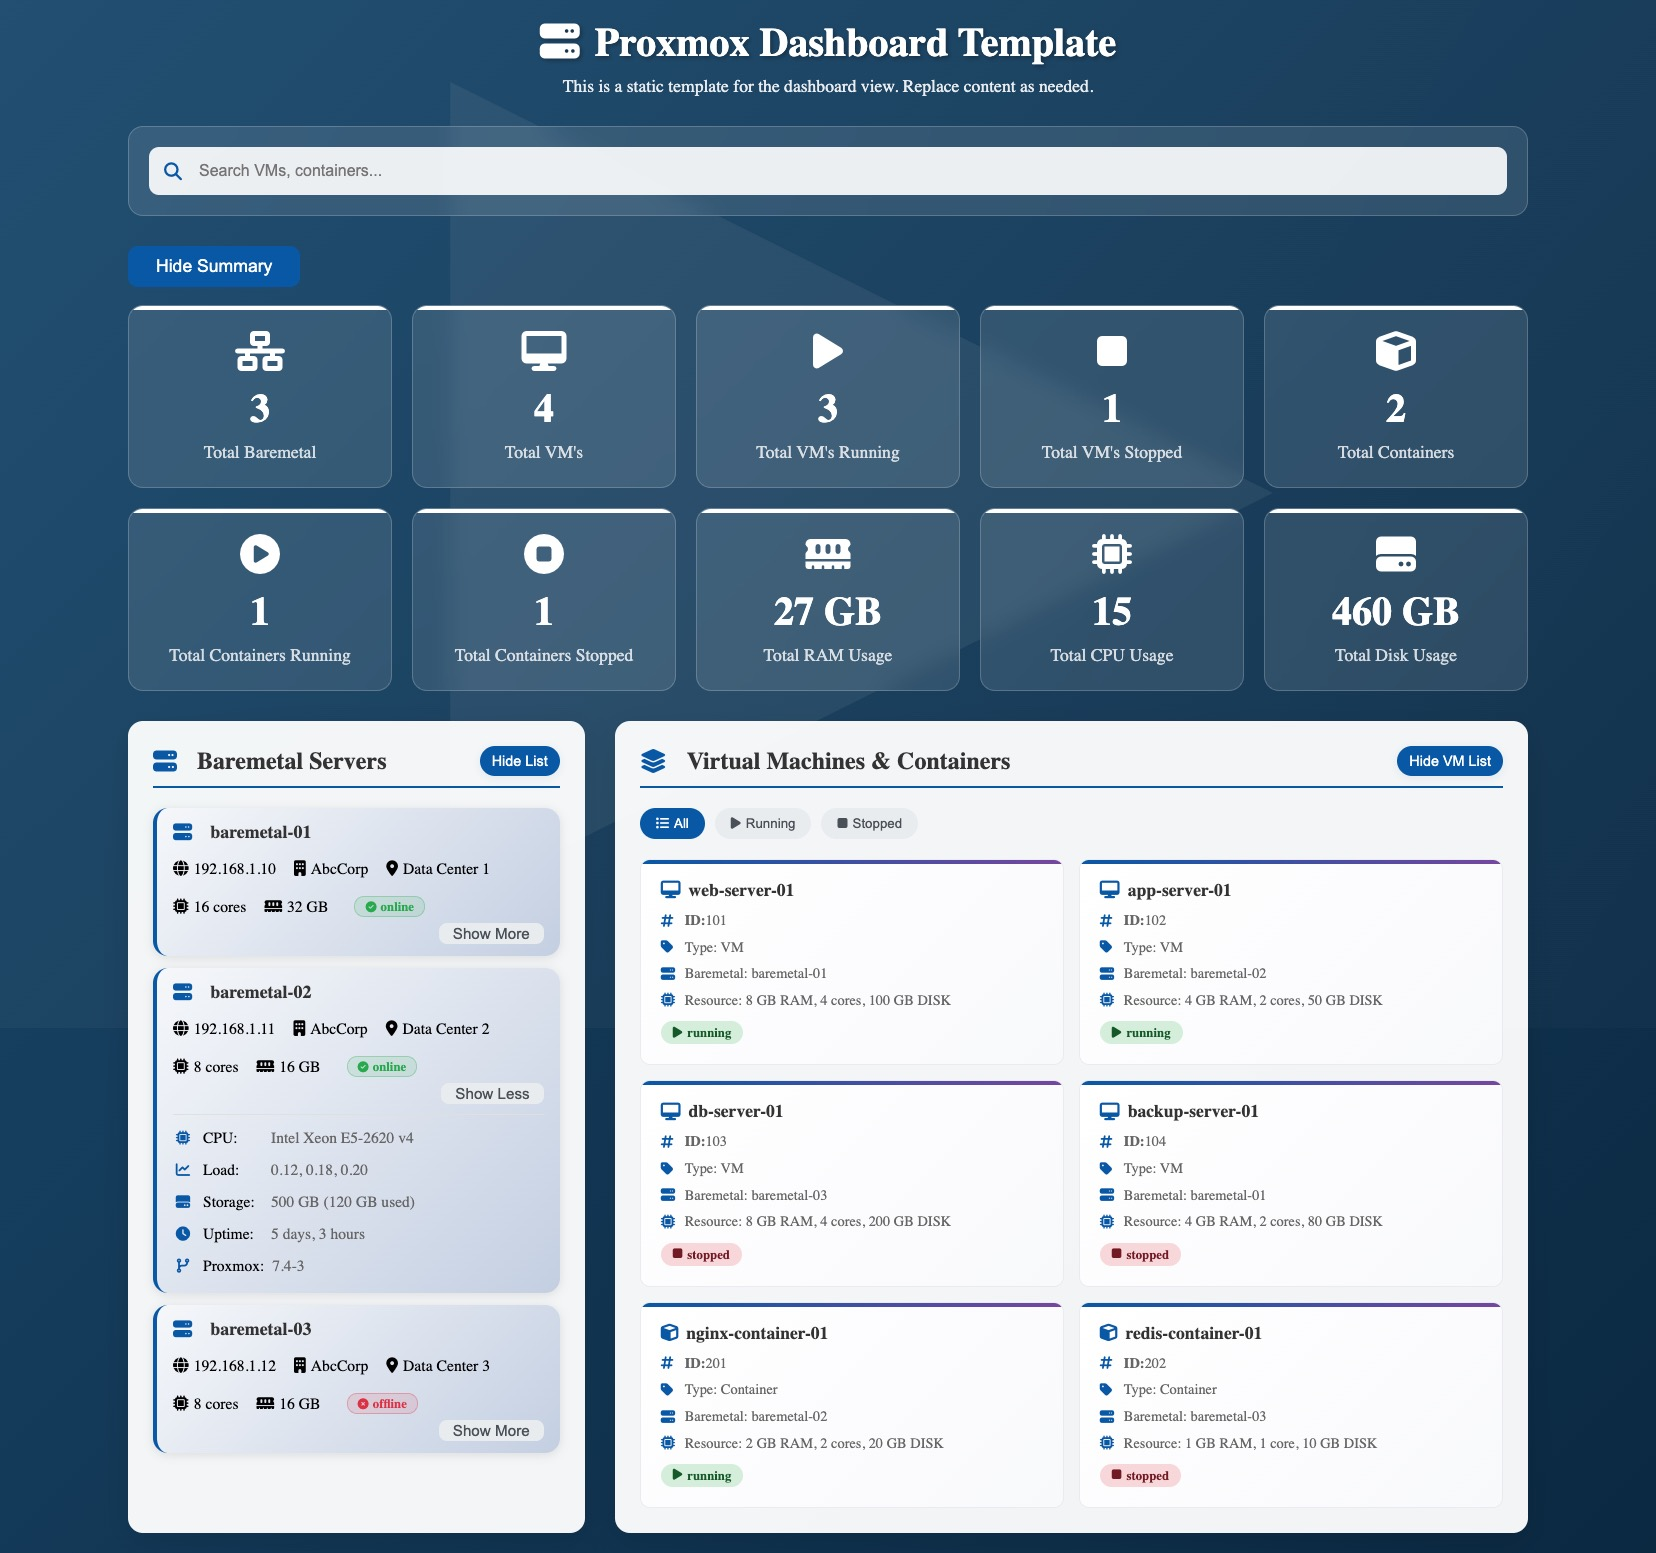
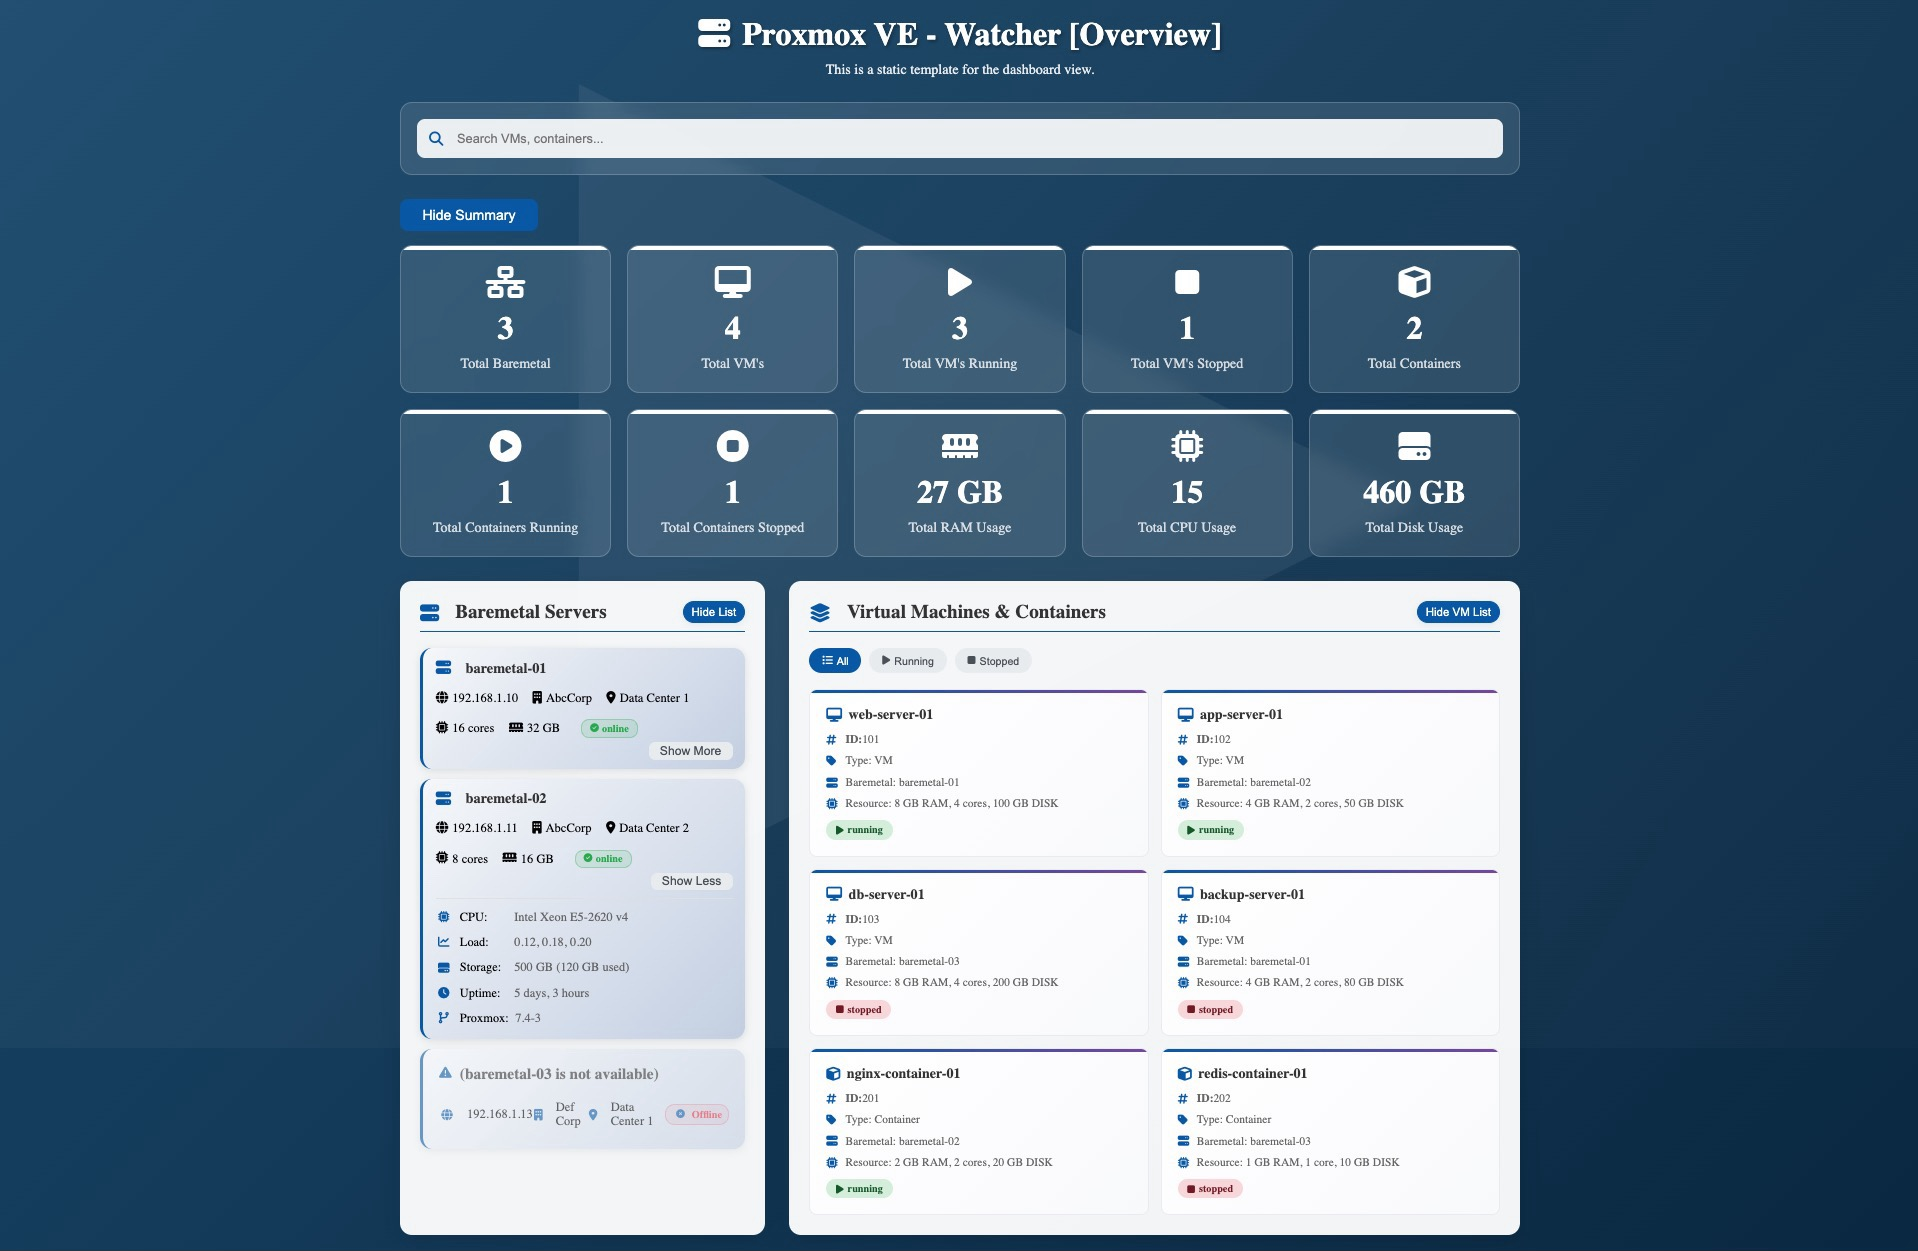
change title name dashboard

diff --git a/frontend/index.html b/frontend/index.html
@@ -3,7 +3,7 @@
 <head>
     <meta charset="UTF-8">
     <meta name="viewport" content="width=device-width, initial-scale=1.0">
-    <title>Proxmox Infrastructure Dashboard</title>
+    <title>Proxmox VE - Watcher</title>
     <link rel="icon" type="image/png" href="https://img.icons8.com/?size=100&id=GxnnEGl75yew&format=png&color=000000">
     <link rel="stylesheet" href="https://cdnjs.cloudflare.com/ajax/libs/font-awesome/6.4.0/css/all.min.css">
     <link rel="stylesheet" href="style.css">
@@ -11,7 +11,7 @@
 <body>
     <div class="container">
         <div class="header">
-            <h1><i class="fas fa-server"></i>Proxmox Infrastructure Dashboard</h1>
+            <h1><i class="fas fa-server"></i>Proxmox VE - Watcher</h1>
             <p>Manage and locate your VMs across baremetal servers.</p>
         </div>
 
